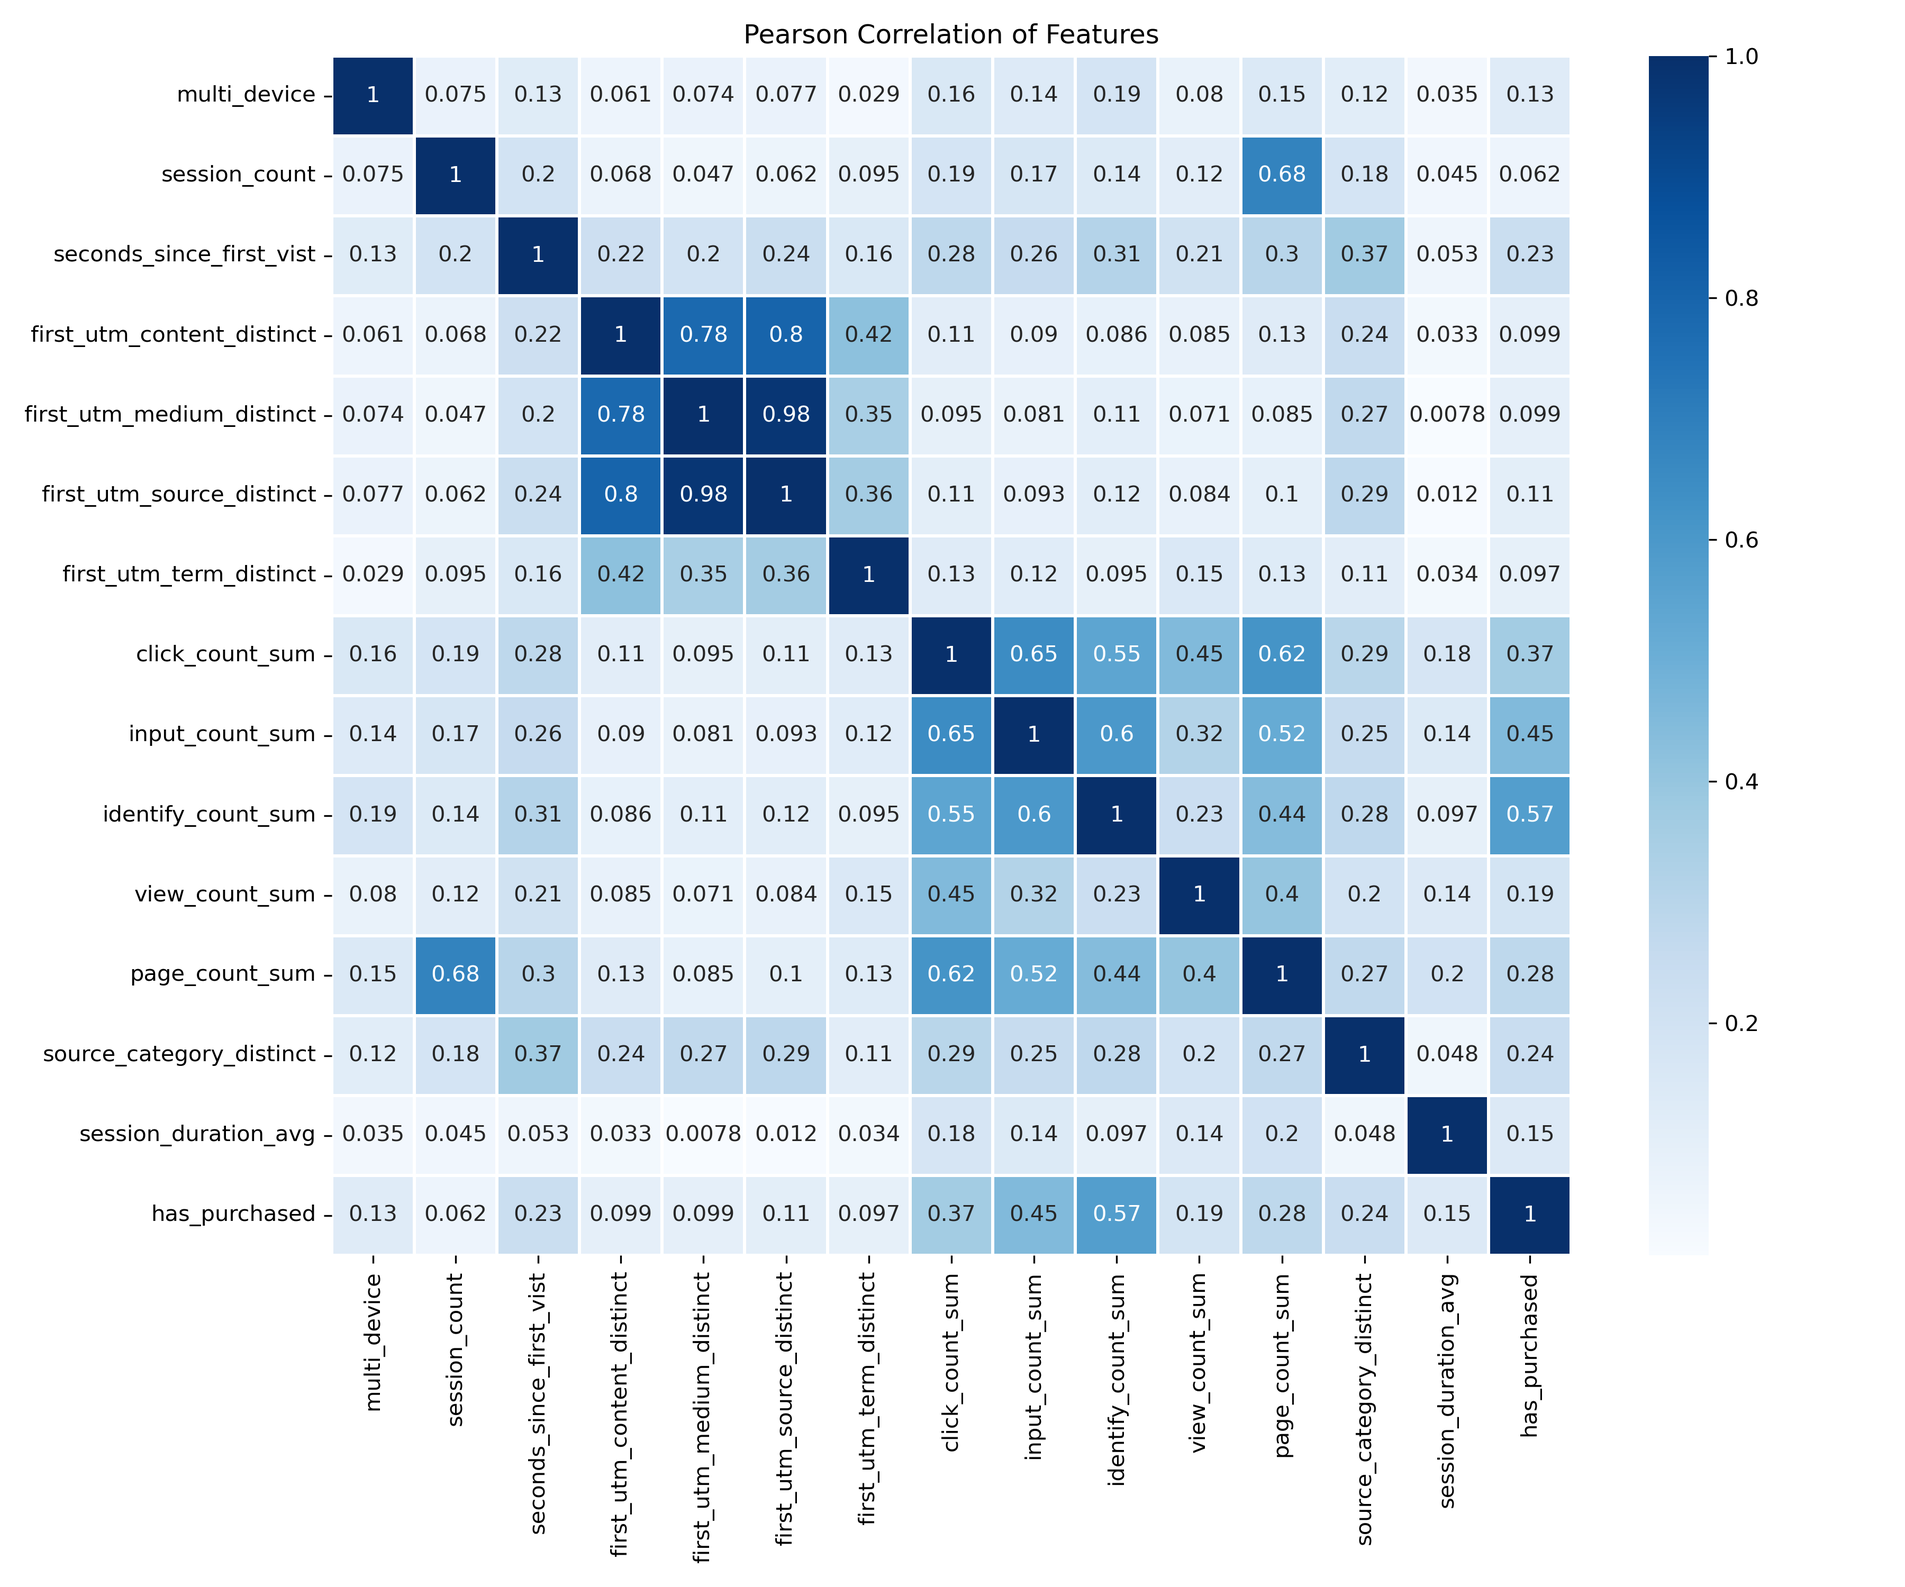
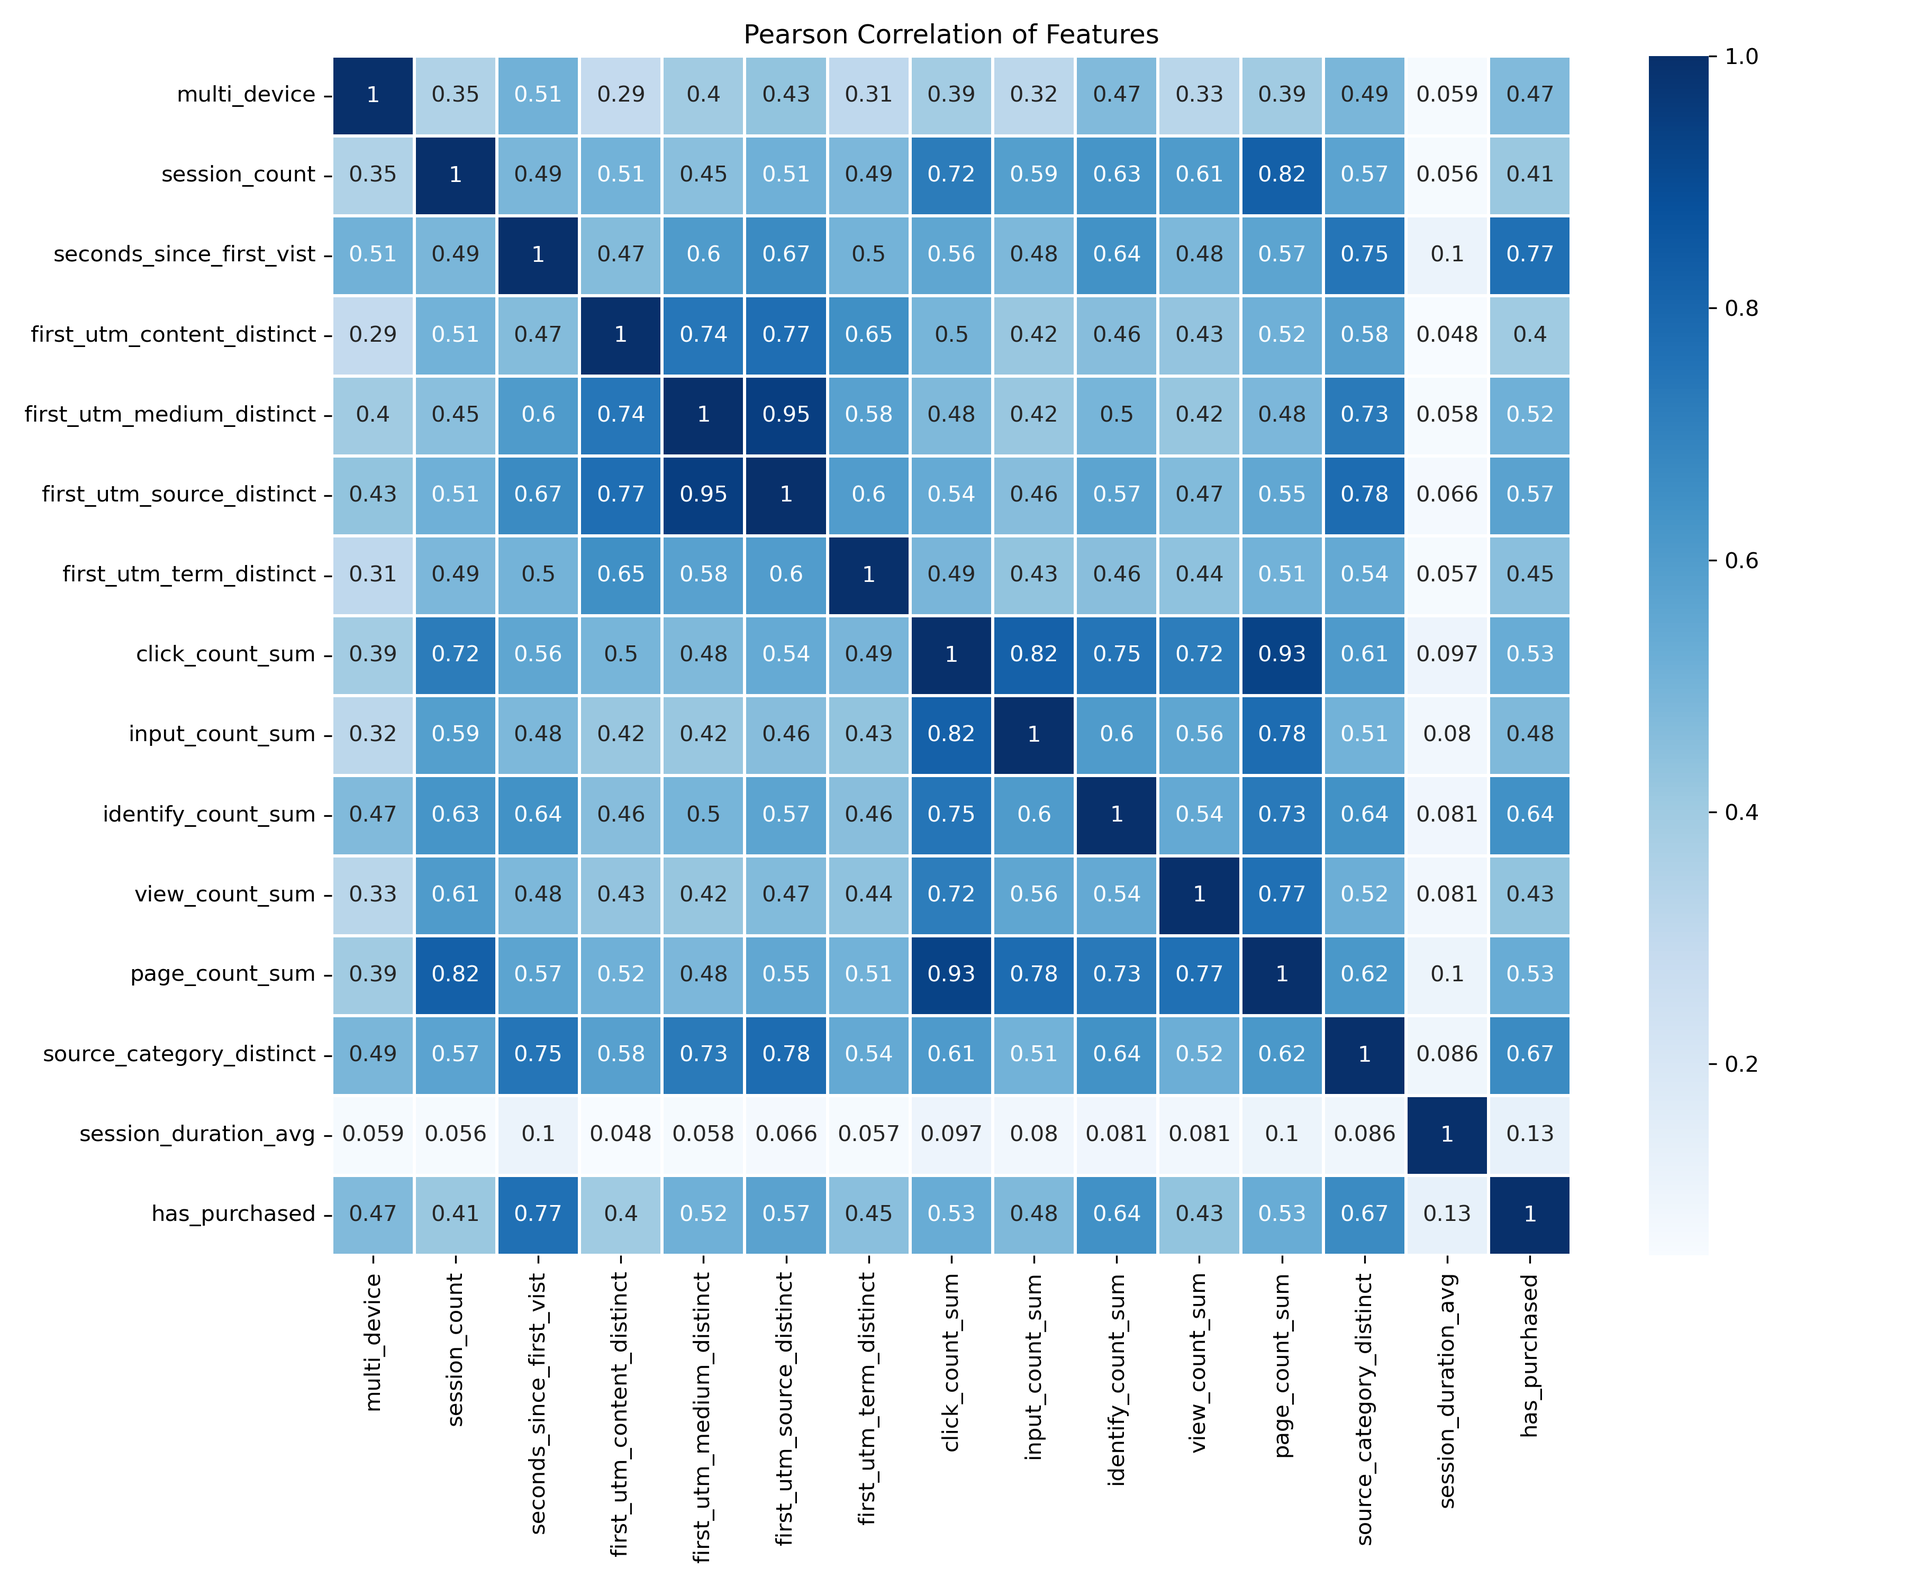
First draft of Queries

diff --git a/seo_report.html b/seo_report.html
@@ -99,7 +99,7 @@
                         <tr>
                             <th class="green">Good</th>
                             
-                            <td>You've included 2 internal                     links. Nice job !</td>
+                            <td>You've included 7 internal                     links. Nice job !</td>
                             
                         </tr>
                         

diff --git a/content/posts/ml/trialfire.md b/content/posts/ml/trialfire.md
@@ -13,12 +13,26 @@ Twitter_Image: images/covers/marketing.jpg
 
 # What is Trialfire?
 
-Trialfire is a Marketing Attribution Platform.
+Trialfire is a Marketing Attribution Platform.  While 
 
 [Trialfire](https://trialfire.com)
 
 
-## Creating Queries for Our Model
+## Motivation
+
+In this article I will focus less on the the fundamentals of model building and more on the **overall thought process** in setting up the end-to-end process for moving this into production.  There will be references to best practices throughout as needed.
+
+I am going to break this down into 3 steps:
+
+* **Step 1**: Creating Queries for Our Model
+* **Step 2**: Model Building with XGBoost
+* **Step 3**: Inferencing on Fresh Data
+
+In each of these steps, i'll explain the throught process and logic behind the steps.  
+
+Let's go! 
+
+## Step 1: Creating Queries for Our Model
 
 One of the goals was to create queries that included all of the the selected features needed plus all feature engineering already performed.  By doing this, we can avoid a lot of clean up when we **inference** our model on new data.  I'll show the inferencing at the end of this article that will demonstrate how simple it is when you build clean data queries from the start.
 
@@ -44,38 +58,60 @@ tf_port = 5432
 
 Now we can build the connection string. I'm using the `quote_plus` function to ensure that any special characters are properly encoded.  This is especially important if you have a *username* or *password* with special characters.
 
-
 ```python
 uri = f"postgresql+psycopg2://{quote_plus(tf_user)}:{quote_plus(tf_pass)}@{tf_host}:{tf_port}/{tf_db}"
 alchemyEngine = create_engine(uri)
 dbConnection = alchemyEngine.connect();
 ```
 
-Let's start grabbing our data.
+Let's get our data.
 
 ### Keeping Your Dataset Balanced
 
-I know from investigating this dataset that we have very **imbalanced data**.  This is a common situtation.  In our case less people have purchased products than haven't.  I also know that this is a very large dataset.  I wanted to come up with an approach for training that would allow me to take a subset of the data but preserve the class balance.
+I know from investigating this dataset that we have very [imbalanced data]({filename}../ml/imbalanced.md).  This is a common situtation where fewer people have purchased products than haven't.  I also know that this is a very large dataset.  I wanted to come up with an approach for training that would allow me to take a subset of the data but preserve the class balance.
 
-For a guide on how to deal with Imbalanced Data, check out: [Don’t Get Caught in the Trap of Imbalanced Data When Building Your ML Model]({filename}../ml/imbalanced.md)
-
-I'll start by getting the counts of each class for the window of time that I intend to train my data on (which is essetially 6 months of data.  More on that shortly.)
+I'll start by getting the counts of each class for the window of time that I intend to train my data on (which is essetially 6 months of data.  More on that shortly.)  I'm also utilizing a date-based constraint here where I'm fetching data where the user's `last_seen` data is older than 7 days but later than 6 months. In cases like this model, trying to predict purchase behavior, we don't want to go back too far with our data since multiple things could have changed such as ad campaigns, product offerings and more.  With Postgres, I can use the `INTERVAL` function to easily do this.
 
 ```python
-# Us this to get the balance ratios to limit the number of rows
 true_counts = """
 SELECT COUNT(*)
 FROM person_""" + tf_api + """ P
 WHERE (P.has_purchased is True) 
-AND (P.first_seen < CURRENT_DATE - INTERVAL '7 days')
-AND (P.first_seen > CURRENT_DATE - INTERVAL '6 months');
+AND (P.last_seen < CURRENT_DATE - INTERVAL '7 days')
+AND (P.last_seen > CURRENT_DATE - INTERVAL '6 months');
 """
 ```
 
-I ended up with **76,953** for the `true_counts` and **2,600,466** for the `false_counts`.  I simply used `10%` of these as limits for the queries below.
+I ended up with **46,5998** for the `true_counts` and **2,759,986** for the `false_counts`.  I simply used **25%** of these as limits store in a variable for the queries below.
 
 
-### Getting the Data
+### Building ML Ready Queries
+
+Next our query.  There are actually three queries that are nearly identical.  The first two segment out data for both classes and the final data is people who haven't purchased that we want to predict their behavior on.  
+
+1. `person_purchased` - People who have purchased in the past 6 months.  We will use this to train/test our model.
+2. `person_not` - People who have not purchased in the past 6 months.  We will use this to train/test our model.
+3. `person_test` - People who have not purchased but visited the site within the last 7 days.  We'll use this as our final validate set that we'll inference on.
+
+### Feature Engineering
+
+Before we explore the queries I want to cover how [Feature Engineering]({filename}../ml/featureeng.md)is **built right into the query** itself, as opposed to doing this during model building. 
+
+Why is this critical and how did I arrive here? 
+
+First of all.  I performed all of the [Exploratory Data Analysis]({filename}../ml/eda.md) and Feature Engineering inside my model building notebook.  I also performed [Feature Selection]({filename}../ml/featureselection.md), running the model multiple times until I settled on the final data I wanted.  
+
+That won't be shown below, because after I performed all of these steps, I went back and built that **directly into the SQL query** statements.  What this allows me to do, is completely skip this step later when it comes to mode inference on new data! A hge time saver and improves the overal robustness of the model.  Let's take a look at a few steps.
+
+1. `EXTRACT(EPOCH FROM (P.last_seen - P.first_seen))`: This select statement calculates the amount of seconds between the `last_seen` date and `first_seen` date.  This is super useful in figuring out how long a user has been visiting the site.  Also, utilizing EPOCH time instead of Date Diff is easier to work with since everything is normalized to a number of seconds.  When utilizing Date Diff, you can run into some that are in days, some are in milleseconds making it something you have to process again to normalize it.
+2. `count(distinct)`, `sum()`, and `avg()` are all aggregate functions performed on the session table`: This is a great way to get a sense of how many times a user has visited the site, how many times they've clicked on a link, how many times they've input data, etc.  This is something you could reserve for Pandas, but it's much more efficient (and easier) to do right in your query.
+3. `P.multi_device::int` and `P.has_purchased::int` this operation is casting a boolean value as an integer.  Working with integer values is needed for most ML models.  It's easier to get these into the correct format before moving forward.
+
+You can extend this concept further with all of your feature engineering needs.  I highly reccomend doing it this way. 
+
+### Etracting the Data for Specific Date Windows
+
+Now let's run the actual queries that will extract our data.  As mentioned above, we don't want to go back too far in time with our data so we'll implement the same date window constraint we used for the counts above.  Two additional notes.  First I'm utilizing the function `RANDOM()` on the `ORDER BY` clause so that we return a random subset of data instead of something ordered.  Remember we're only pulling 25% of the total data availble.  Second, I've inserted the variable `str(lim_true)` into the `LIMIT` clause.  This is the variable we created earlier that holds the limit for the number of records we want to return.
 
 ```python
 person_purchased = """
@@ -107,20 +143,20 @@ FROM person_""" + tf_api + """ P
 JOIN session_""" + tf_api + """ S 
 ON S.person_id = P.person_id
 WHERE (P.has_purchased is True) 
-AND (P.first_seen < CURRENT_DATE - INTERVAL '7 days')
-AND (P.first_seen > CURRENT_DATE - INTERVAL '6 months')
+AND (P.last_seen < CURRENT_DATE - INTERVAL '7 days')
+AND (P.last_seen > CURRENT_DATE - INTERVAL '6 months')
 GROUP BY P.person_id
 ORDER BY random()
 LIMIT """ + str(lim_true) + ';'
 ```
 
-Then repeat the above for the `false_counts`.  Replacing `WHERE (P.has_purchased is True)` with **False** and `LIMIT """ + str(lim_true)` with **lim_false**.
+Then repeat the above for the `false_counts`.  Replacing `WHERE (P.has_purchased is True)` with `False` and `LIMIT """ + str(lim_true)` with `str(lim_false)`.
+
+Now that we have our data representing our two classes, let's build a set of data that's **unseen** by the model.  In this case we'll take data where the user's last seen value is **greater than 7 days** ago.  We're not going to limit the number of records here like we did above.  We'll simply take all users who haven't purchased but that have visited in the last 7 days.
 
 ```python
 person_test = """
-SELECT
-
-<< Trucated - Same as above with the following differences >>
+SELECT ... (same as above)
 
 WHERE (P.has_purchased is False) 
 AND (P.last_seen > CURRENT_DATE - INTERVAL '7 days')
@@ -128,6 +164,7 @@ GROUP BY P.person_id;
 """
 ```
 
+Now we can check the **shape** of each our our dataframes and persist them into `.pkl` files to make the data easier to work with and not have to run the queries again.
 
 ```python
 print(df_purchased.shape)
@@ -135,12 +172,23 @@ print(df_not.shape)
 print(df_test.shape)
 ```
 ```text
-(7695, 23)
-(260046, 23)
-(251630, 23)
+(116483, 23)
+(689983, 23)
+(265888, 23)
 ```
 
-## Model Building
+We have **116k** records for our purchased class, **690k** for our not purchased class, and **266k** for our validation set.  Check out the entire process and code for this portion on [GitHub](https://github.com/broepke/TrialFire/blob/main/01_tf_get_data.ipynb)
+
+
+## Step 2: Model Building with XGBoost
+
+
+
+
+1. [Model Selection]({filename}../ml/modelselection.md)
+2. [Model Training and Evaluation]({filename}../ml/modeleval.md)
+
+
 
 
 ```python
@@ -217,28 +265,28 @@ df_X = df.drop(columns=['has_purchased', 'person_id'])
 df_X.iloc[1]
 ```
 ```text
-first_utm_medium                     sfmc
-first_utm_source                    email
+first_utm_medium               google_ads
+first_utm_source                   search
 multi_device                            0
 session_count                           5
 last_utm_medium                google_ads
-last_utm_source                    search
-source_category               Direct Mail
-source_category_2                    None
+last_utm_source                   display
+source_category               Paid Search
+source_category_2                 Branded
 source_category_3                    None
-seconds_since_first_vist      8579287.456
+seconds_since_first_vist      20218985.28
 first_utm_content_distinct              1
-first_utm_medium_distinct               2
+first_utm_medium_distinct               1
 first_utm_source_distinct               2
 first_utm_term_distinct                 1
-click_count_sum                        59
-input_count_sum                         2
-identify_count_sum                     11
-view_count_sum                          0
-page_count_sum                         55
+click_count_sum                        48
+input_count_sum                         4
+identify_count_sum                      2
+view_count_sum                          1
+page_count_sum                         72
 source_category_distinct                4
-session_duration_avg                  9.0
-Name: 1, dtype: object
+session_duration_avg                  4.6
+Name: 0, dtype: object
 ```
 
 
@@ -304,21 +352,21 @@ for feature in zip(xgb_cols, feat_imp):
         
 # create DataFrame using data
 df_imp = pd.DataFrame(feat_list, columns =['FEATURE', 'IMPORTANCE']).sort_values(by='IMPORTANCE', ascending=False)
-df_imp['CUMULATIVE_TOTAL'] = df_imp['IMPORTANCE'].cumsum()
-df_imp.head(20)
+df_imp['SUMMED_TOTAL'] = df_imp['IMPORTANCE'].cumsum()
+df_imp.head(10)
 ```
 ```text
-                                 FEATURE  IMPORTANCE  SUMMED_TOTAL
-9                num__identify_count_sum    0.518808      0.518808
-144           cat__source_category_Email    0.040660      0.559468
-88           cat__last_utm_medium_criteo    0.037895      0.597363
-161   cat__source_category_2_Retargeting    0.019294      0.616657
-162     cat__source_category_2_Retention    0.017467      0.634124
-61           cat__first_utm_source_email    0.014482      0.648606
-160  cat__source_category_2_Reactivation    0.013840      0.662445
-11                   num__page_count_sum    0.013448      0.675893
-163           cat__source_category_2_SMS    0.012081      0.687974
-152      cat__source_category_2_Facebook    0.011446      0.699420
+                              FEATURE  IMPORTANCE  SUMMED_TOTAL
+9             num__identify_count_sum    0.551607      0.551607
+82        cat__first_utm_source_email    0.031941      0.583548
+214  cat__source_category_Paid Search    0.028456      0.612005
+196         cat__last_utm_source_sfmc    0.025089      0.637093
+49        cat__first_utm_medium_email    0.025076      0.662169
+182        cat__last_utm_source_email    0.014413      0.676583
+11                num__page_count_sum    0.012657      0.689239
+211        cat__source_category_Email    0.009739      0.698978
+210      cat__source_category_Display    0.008529      0.707508
+8                num__input_count_sum    0.007481      0.714989
 ```
 
 
@@ -351,18 +399,20 @@ print_confusion(pipeline)
 ```text
               precision    recall  f1-score   support
 
-           0      0.997     0.995     0.996     77963
-           1      0.839     0.902     0.869      2360
+           0      0.993     0.985     0.989    206899
+           1      0.914     0.960     0.937     35041
 
-    accuracy                          0.992     80323
-   macro avg      0.918     0.948     0.933     80323
-weighted avg      0.992     0.992     0.992     80323
+    accuracy                          0.981    241940
+   macro avg      0.954     0.972     0.963    241940
+weighted avg      0.982     0.981     0.981    241940
 ```
 
 ![Pearson's Correlation Matrix]({static}../../images/posts/trialfire_cm.png)  
 
 
-## Inferencing on Fresh Data
+You can find all of the code for this portion of the process on [GitHub](https://github.com/broepke/TrialFire/blob/main/02_tf_first_purchase.ipynb)
+
+## Step 3: Inferencing on Fresh Data
 
 
 ```python
@@ -408,21 +458,39 @@ df_leads = df_probs[df_probs['convert_probability'] >= 0.75]
 df_leads[['person_id', 'last_prediction_date', 'convert_probability']].to_csv('03_tf_first_purchase_leads.csv', index=False)
 ```
 
+```text
+PERSON_ID     PRED_DATE   CONVERT_PROB
+051580b0      2023-01-29  1.0
+985ad405      2023-01-29  0.9700000286102295
+3f92a006      2023-01-29  0.8510000109672546
+061cc82a      2023-01-29  0.7580000162124634
+3ca4342a      2023-01-29  0.7509999871253967
+122154d7      2023-01-29  0.75
+```
+
+
 ```python
 len(df_leads) / len(df)
 ```
 ```text
-0.012685291896832651
+0.013900589721988205
 ```
 
 
 
-As always, you can find the full code on [GitHub](https://github.com/broepke/TrialFire)
+
+You can find all of the code for this portion of the process on [GitHub](https://github.com/broepke/TrialFire/blob/main/03_tf_first_purchase_inference.ipynb)
+
+
+
 
 https://docs.trialfire.com/#/sql_access?id=connecting
 
 ## Conclusion
 
+
+
+As always, you can find the full code on [GitHub](https://github.com/broepke/TrialFire)
 
 
 *If you liked what you read, [subscribe to my newsletter](https://campaign.dataknowsall.com/subscribe) and you will get my cheat sheet on Python, Machine Learning (ML), Natural Language Processing (NLP), SQL, and more. You will receive an email each time a new article is posted.*
